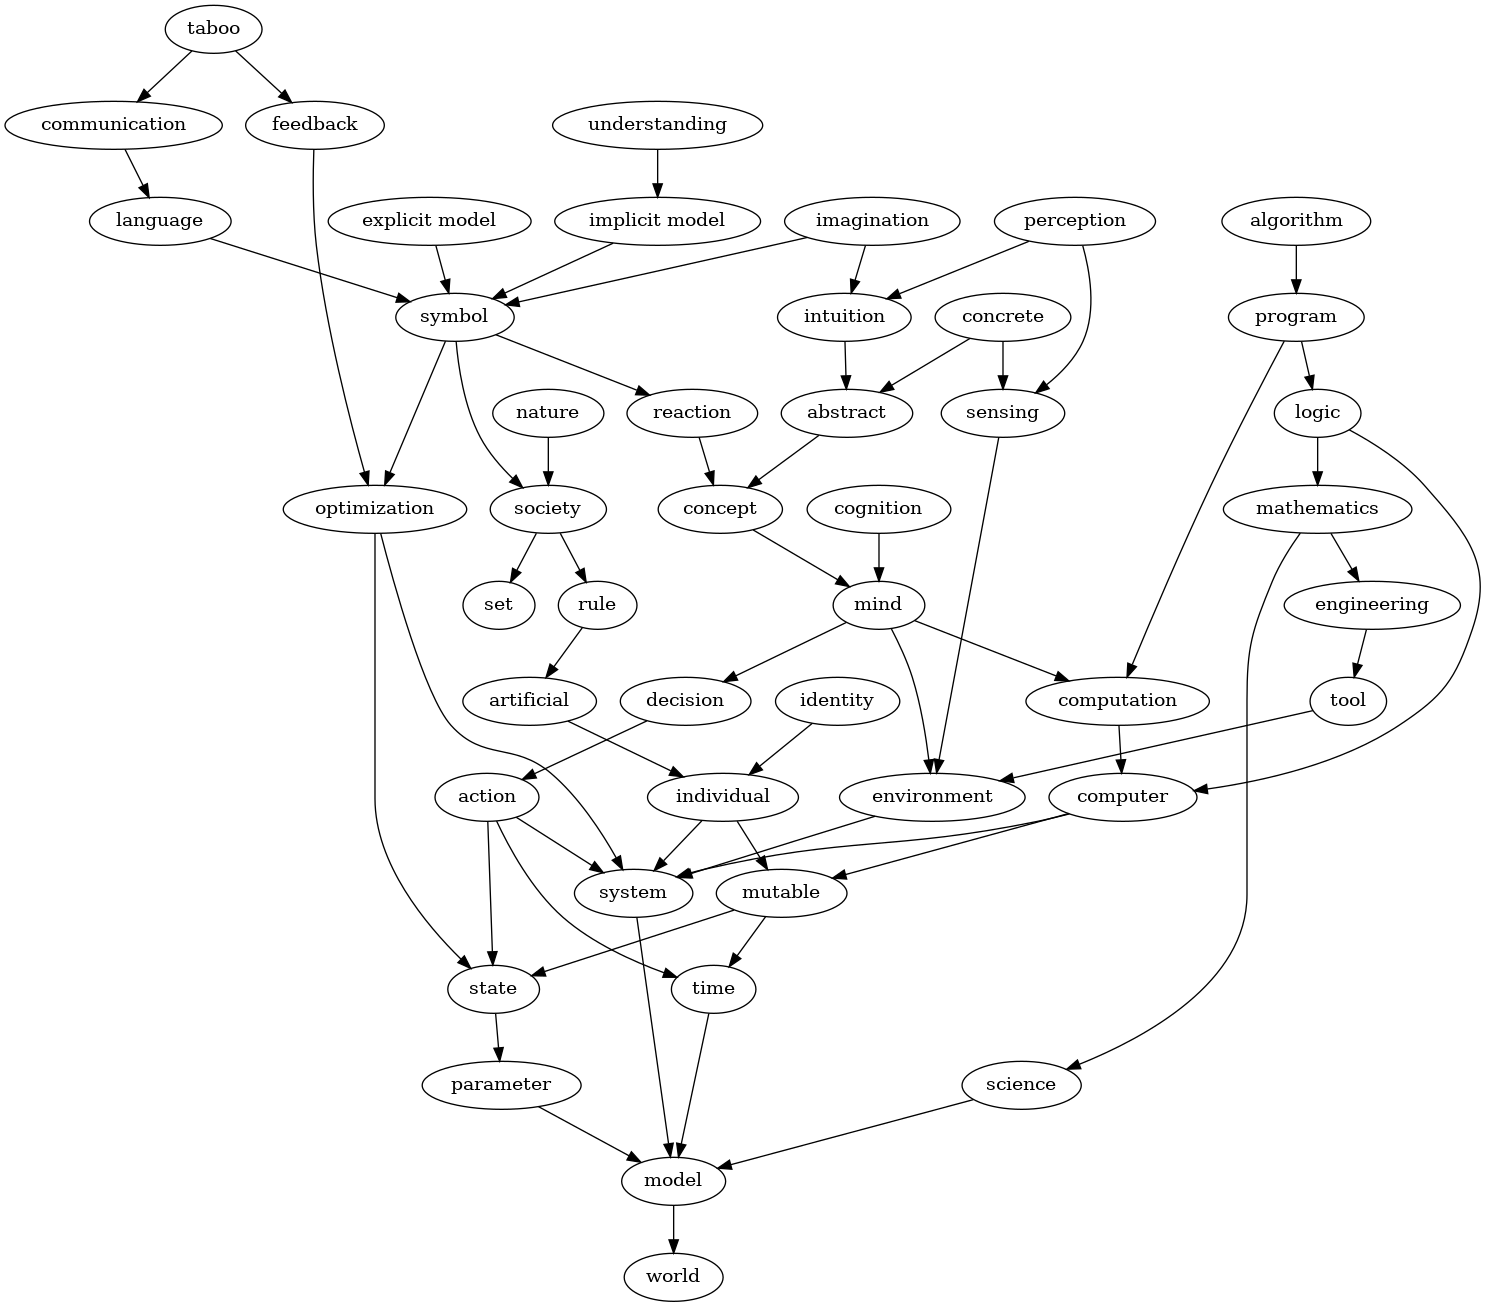
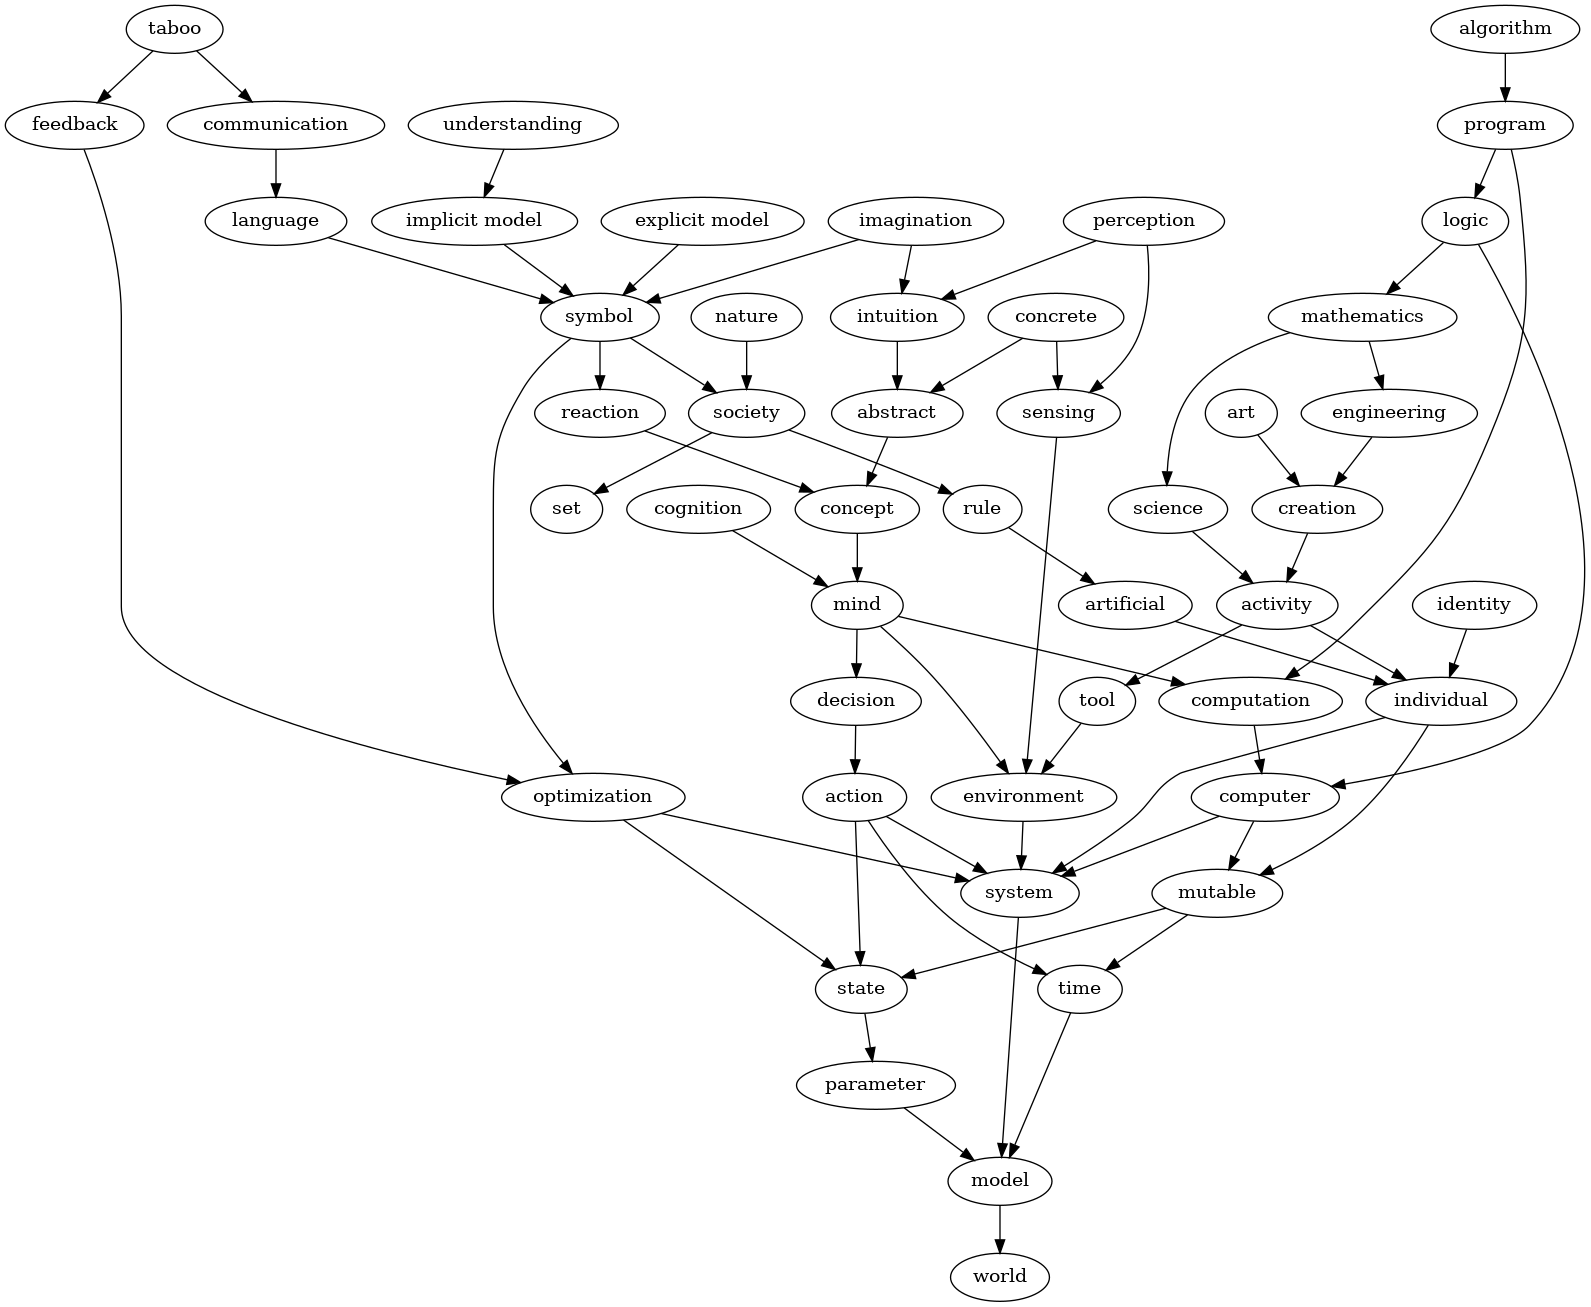
Add definitions

diff --git a/docs/2020-09-12-dictionary/index.html b/docs/2020-09-12-dictionary/index.html
@@ -66,8 +66,11 @@
 <div class="vanity-image-div">
 <p><a href="img/tool.jpg"><img src="img/tool.jpg" class="vanity-image-img" /></a></p>
 </div>
-<p><span id="vanity-736369656e6365"></span><strong>science</strong>: <span class="vanity-contents">The activity consisting in creating and refining <a href="#vanity-6d6f64656c" class="vanity-term-link">models</a> of the <a href="#vanity-776f726c64" class="vanity-term-link">world</a>.</span></p>
-<p><span id="vanity-656e67696e656572696e67"></span><strong>engineering</strong>: <span class="vanity-contents">The activity of making <a href="#vanity-746f6f6c" class="vanity-term-link">tools</a>.</span></p>
+<p><span id="vanity-6163746976697479"></span><strong>activity</strong>: <span class="vanity-contents">Collection of events involving <a href="#vanity-696e646976696475616c" class="vanity-term-link">individuals</a> using specific <a href="#vanity-746f6f6c" class="vanity-term-link">tools</a> or methods.</span></p>
+<p><span id="vanity-736369656e6365"></span><strong>science</strong>: <span class="vanity-contents">The <a href="#vanity-6163746976697479" class="vanity-term-link">activity</a> consisting in creating and refining <a href="#vanity-6d6f64656c" class="vanity-term-link">models</a> of the <a href="#vanity-776f726c64" class="vanity-term-link">world</a>.</span></p>
+<p><span id="vanity-6372656174696f6e"></span><strong>creation</strong>: <span class="vanity-contents"><a href="#vanity-6163746976697479" class="vanity-term-link">Activity</a> whose impact on the <a href="#vanity-776f726c64" class="vanity-term-link">world</a> is noticed and becomes associated with a new concept, in some <a href="#vanity-6d6f64656c" class="vanity-term-link">model</a> of interest.</span></p>
+<p><span id="vanity-656e67696e656572696e67"></span><strong>engineering</strong>: <span class="vanity-contents">The <a href="#vanity-6163746976697479" class="vanity-term-link">activity</a> of <a href="#vanity-6372656174696f6e" class="vanity-term-link">creating</a> <a href="#vanity-746f6f6c" class="vanity-term-link">tools</a>.</span></p>
+<p><span id="vanity-617274"></span><strong>art</strong>: <span class="vanity-contents">The <a href="#vanity-6163746976697479" class="vanity-term-link">activity</a> of <a href="#vanity-6372656174696f6e" class="vanity-term-link">creating</a> anything that is not a <a href="#vanity-746f6f6c" class="vanity-term-link">tool</a>.</span></p>
 <p><span id="vanity-6d617468656d6174696373"></span><strong>mathematics</strong>: <span class="vanity-contents">The study of the structure of unambiguous statements. Mathematics are useful for dealing with <a href="#vanity-6d6f64656c" class="vanity-term-link">models</a> in <a href="#vanity-736369656e6365" class="vanity-term-link">science</a>, <a href="#vanity-656e67696e656572696e67" class="vanity-term-link">engineering</a>, and other fields of study.</span></p>
 <p><span id="vanity-636f6d7075746572"></span><strong>computer</strong>: <span class="vanity-contents">A finite <a href="#vanity-73797374656d" class="vanity-term-link">system</a> that reads discrete instructions and carries them out predictably. A computer can be <a href="#vanity-6d6f64656c" class="vanity-term-link">represented</a> as a sequence of <a href="#vanity-7374617465" class="vanity-term-link">states</a> comprising a <a href="#vanity-6d757461626c65" class="vanity-term-link">mutable</a>, discrete storage space. Turing machines are idealized representations of computers with unbounded storage or memory; they are used in theoretical studies for proving some properties of computers. This definition excludes hypercomputers, which would allow solving problems that Turing machines cannot, such as the halting problem.</span></p>
 <p><span id="vanity-6c6f676963"></span><strong>logic</strong>: <span class="vanity-contents">The <a href="#vanity-6d617468656d6174696373" class="vanity-term-link">mathematical</a> subfield of logic. It is focused on the general properties of formal systems and characterizing what can and cannot be done with mathematics and <a href="#vanity-636f6d7075746572" class="vanity-term-link">computers</a>.</span></p>

diff --git a/src/2020-09-12-dictionary/index.md b/src/2020-09-12-dictionary/index.md
@@ -198,12 +198,32 @@ according this definition. ]{.vanity-contents}
 [![](img/tool.jpg){.vanity-image-img}](img/tool.jpg)
 :::
 
-[]{#vanity-736369656e6365}**science**: [The activity consisting in
+[]{#vanity-6163746976697479}**activity**: [Collection of events
+involving [individuals](#vanity-696e646976696475616c){.vanity-term-link}
+using specific [tools](#vanity-746f6f6c){.vanity-term-link} or methods.
+]{.vanity-contents}
+
+[]{#vanity-736369656e6365}**science**: [The
+[activity](#vanity-6163746976697479){.vanity-term-link} consisting in
 creating and refining [models](#vanity-6d6f64656c){.vanity-term-link} of
 the [world](#vanity-776f726c64){.vanity-term-link}. ]{.vanity-contents}
 
-[]{#vanity-656e67696e656572696e67}**engineering**: [The activity of
-making [tools](#vanity-746f6f6c){.vanity-term-link}. ]{.vanity-contents}
+[]{#vanity-6372656174696f6e}**creation**:
+[[Activity](#vanity-6163746976697479){.vanity-term-link} whose impact on
+the [world](#vanity-776f726c64){.vanity-term-link} is noticed and
+becomes associated with a new concept, in some
+[model](#vanity-6d6f64656c){.vanity-term-link} of interest.
+]{.vanity-contents}
+
+[]{#vanity-656e67696e656572696e67}**engineering**: [The
+[activity](#vanity-6163746976697479){.vanity-term-link} of
+[creating](#vanity-6372656174696f6e){.vanity-term-link}
+[tools](#vanity-746f6f6c){.vanity-term-link}. ]{.vanity-contents}
+
+[]{#vanity-617274}**art**: [The
+[activity](#vanity-6163746976697479){.vanity-term-link} of
+[creating](#vanity-6372656174696f6e){.vanity-term-link} anything that is
+not a [tool](#vanity-746f6f6c){.vanity-term-link}. ]{.vanity-contents}
 
 []{#vanity-6d617468656d6174696373}**mathematics**: [The study of the
 structure of unambiguous statements. Mathematics are useful for dealing
